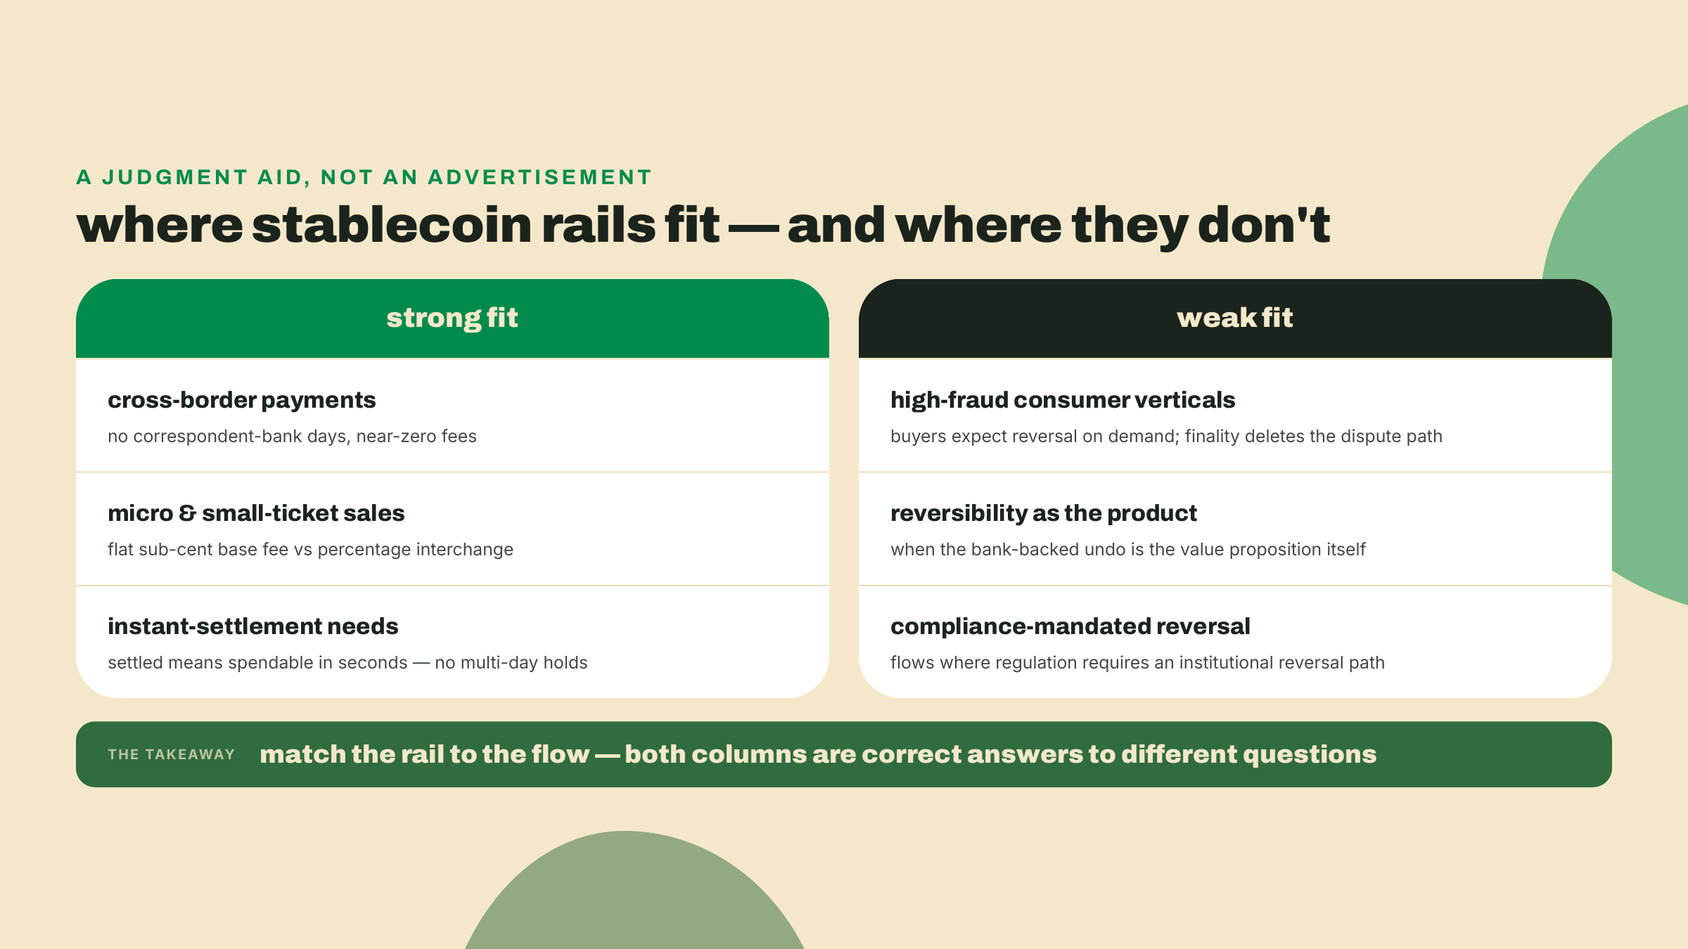
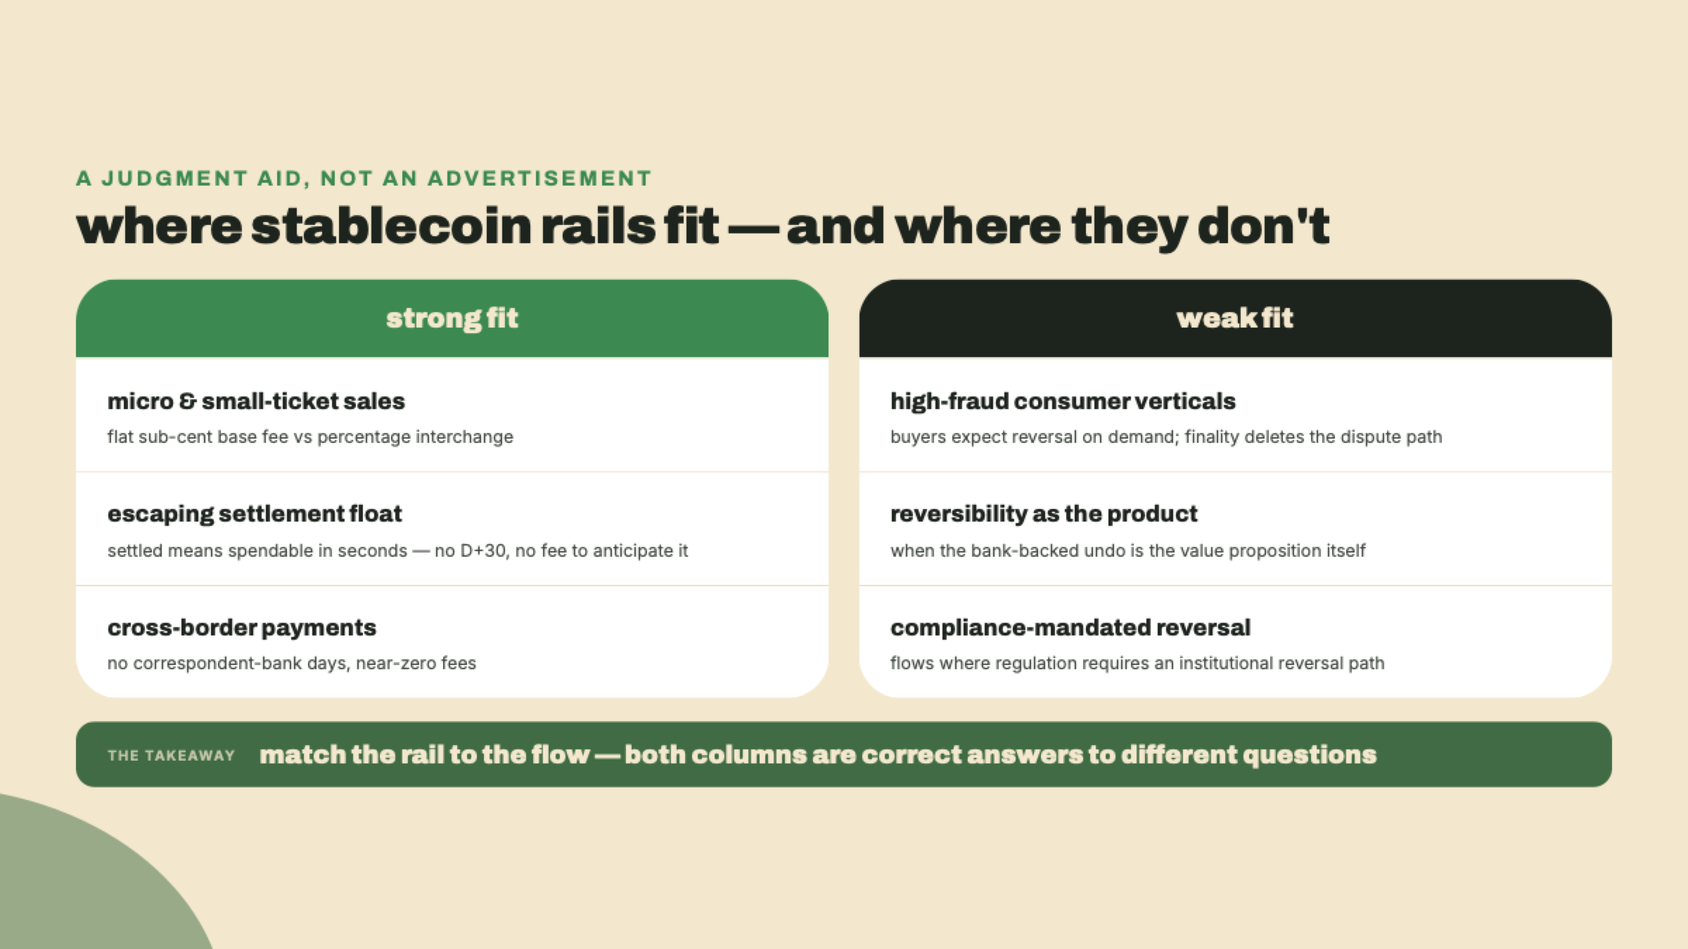
fix(payments): replace m01-l2 remittance corridor with the Brazilian card float

diff --git a/courses/solana-payments-commerce/visual-src/m01-l2/v04-chart.html b/courses/solana-payments-commerce/visual-src/m01-l2/v04-chart.html
@@ -10,10 +10,10 @@
   .viz { position: relative; width: 100%; }
 </style></head>
 <body>
-<!-- chart: Sending $200 home: corridor cost vs the network's cut
-     purpose: turn the remittance claim into a picture: the corridor's 6.6% average dwarfs a base fee that stays under a cent on the same transfer
-     data: Cost of moving the same $200 across a border Traditional remittance corridor, 6.6% average cost: $13.20 per transfer (Helius stablecoin-payments guide, fetched 2026-08-21) Solana base network fee, one signature: 5000 lamports = 0.000005 SOL, which is $0.00075 at $150 per SOL and $0.0015 at $300; sub-cent at any recent SOL price
-     prompt: Single-comparison bar chart with two bars for the cost of moving the same $200: one tall bar at $13.20 labeled "traditional corridor, 6.6% average", one bar at under one cent labeled "Solana base fee, flat per signature". The second bar is invisible at linear scale, so print its dollar value beside it rather than relying on bar height. Subtitle the chart with the $200 ticket so the comparison reads at a glance.
+<!-- chart: What D+1 really costs: the Brazilian card float, priced in the open
+     purpose: turn the antecipacao spread into a picture: the same sale costs sharply more the sooner the merchant wants their own money, and both spreads resolve to the same implicit monthly rate
+     data: InfinitePay published table, top volume tier (merchants above R$80,000/mo), fetched 2026-09-01, page undated. Credit a vista: 1.62% waiting for the settlement schedule vs 2.69% at D+1. Credit in 12x: 2.25% per installment waiting for each due date vs 8.99% for the whole sale at D+1. Both spreads resolve to about 1.05% a month, the implicit interest rate on the merchant's own revenue. Contrast: Solana base fee is a flat 5000 lamports per signature, sub-cent, settled in seconds, no float to buy back.
+     prompt: Grouped bar chart, two groups ("credito a vista" and "credito em 12x"), each with a pair of bars: waiting for the schedule (emerald) vs money at D+1 (yellow). Print the percentage above every bar, with a per-installment note on the 12x waiting bar. Legend above the chart names the two series. Close with a takeaway band stating that both spreads price the same loan at about 1.05% a month, and a caption carrying the source, its fetch date, and the flat Solana base fee contrast.
      BUILD .viz as on-brand HTML per skills/content-gen/references/visual-rendering.md.
      Header: <div class="stbr-eyebrow">..</div> + <h2 class="viz-title">..</h2>.
      Leave the .stbr-decor block untouched (per-asset brand decoration).
@@ -25,39 +25,68 @@
 </div>
 <div class="viz">
 <style>
-  .sub { font-family:var(--font-body); font-size:20px; color:var(--text-secondary); margin:-6px 0 10px; }
-  .stage { background:var(--surface-card); border-radius:var(--radius-2xl); padding:34px 60px 26px; margin-top:14px; }
-  .bars { display:flex; justify-content:center; align-items:flex-end; gap:200px; height:420px;
+  .sub { font-family:var(--font-body); font-size:20px; color:var(--text-secondary); margin:-6px 0 8px; }
+  .legend { display:flex; gap:28px; align-items:center; margin:2px 0 0; }
+  .legend .li { display:flex; gap:10px; align-items:center; font-family:var(--font-body); font-size:16px; color:var(--text-secondary); white-space:nowrap; }
+  .legend .sw { width:18px; height:18px; border-radius:5px; flex:0 0 18px; }
+  .stage { background:var(--surface-card); border-radius:var(--radius-2xl); padding:26px 60px 20px; margin-top:12px; }
+  .bars { display:flex; justify-content:center; align-items:flex-end; gap:190px;
           border-bottom:2.5px solid var(--border-strong); }
+  .grp { display:flex; align-items:flex-end; gap:30px; }
   .bcol { display:flex; flex-direction:column; align-items:center; justify-content:flex-end; }
-  .bcol .val { font-family:var(--font-display); font-weight:900; font-size:40px; color:var(--text-primary); margin-bottom:10px; white-space:nowrap; }
-  .bcol .val small { display:block; font-family:var(--font-body); font-weight:400; font-size:15px; color:var(--text-muted); text-align:center; margin-top:4px; }
-  .bcol .bar { width:190px; border-radius:8px 8px 0 0; }
-  .labels { display:flex; justify-content:center; gap:200px; padding-top:14px; }
-  .labels .lb { width:190px; text-align:center; font-family:var(--font-body); line-height:1.3; }
-  .labels .lb b { display:block; font-family:var(--font-display); font-weight:800; font-size:20px; color:var(--text-primary); margin-bottom:4px; }
-  .labels .lb span { font-size:15px; color:var(--text-secondary); }
-  .cap { margin-top:14px; font-family:var(--font-body); font-size:14px; color:var(--text-muted); text-align:center; }
+  .bcol .val { font-family:var(--font-display); font-weight:900; font-size:32px; color:var(--text-primary); margin-bottom:8px; white-space:nowrap; }
+  .bcol .val small { display:block; font-family:var(--font-body); font-weight:400; font-size:14px; color:var(--text-muted); text-align:center; margin-top:2px; }
+  .bcol .bar { width:150px; border-radius:8px 8px 0 0; }
+  .glabels { display:flex; justify-content:center; gap:190px; padding-top:12px; }
+  .glabels .lb { width:330px; text-align:center; font-family:var(--font-body); line-height:1.3; }
+  .glabels .lb b { display:block; font-family:var(--font-display); font-weight:800; font-size:20px; color:var(--text-primary); margin-bottom:3px; }
+  .glabels .lb span { font-size:14.5px; color:var(--text-secondary); }
+  .band { margin-top:14px; background:var(--surface-brand-deep); color:var(--text-on-brand);
+          border-radius:var(--radius-lg); padding:14px 26px; display:flex; align-items:center; gap:20px; }
+  .band .bk { font-family:var(--font-body); font-weight:800; font-size:12px; letter-spacing:.12em;
+              text-transform:uppercase; opacity:.85; white-space:nowrap; }
+  .band .bt { font-family:var(--font-display); font-weight:900; font-size:21px; line-height:1.15; }
+  .cap { margin-top:10px; font-family:var(--font-body); font-size:13.5px; color:var(--text-muted); text-align:center; }
 </style>
-  <div class="stbr-eyebrow">sending money home</div>
-  <h2 class="viz-title" style="font-size:48px;">$13.20 vs less than a cent</h2>
-  <div class="sub">cost of moving the same <b>$200</b> across a border</div>
+  <div class="stbr-eyebrow">the brazilian card float</div>
+  <h2 class="viz-title" style="font-size:46px;">what D+1 really costs</h2>
+  <div class="sub">same sale, same acquirer, same tier &mdash; the only variable is when you get <b>your own money</b></div>
+  <div class="legend">
+    <span class="li"><span class="sw" style="background:var(--stbr-emerald);"></span>wait for the settlement schedule</span>
+    <span class="li"><span class="sw" style="background:var(--stbr-yellow);"></span>money at D+1</span>
+  </div>
   <div class="stage">
     <div class="bars">
-      <div class="bcol">
-        <div class="val">$13.20</div>
-        <div class="bar" style="height:340px; background:var(--stbr-emerald);"></div>
+      <div class="grp">
+        <div class="bcol">
+          <div class="val">1.62%</div>
+          <div class="bar" style="height:54px; background:var(--stbr-emerald);"></div>
+        </div>
+        <div class="bcol">
+          <div class="val">2.69%</div>
+          <div class="bar" style="height:90px; background:var(--stbr-yellow);"></div>
+        </div>
       </div>
-      <div class="bcol">
-        <div class="val">$0.00075&ndash;$0.0015<small>invisible at this scale &mdash; read the number, not the bar</small></div>
-        <div class="bar" style="height:6px; background:var(--stbr-yellow); border-radius:3px;"></div>
+      <div class="grp">
+        <div class="bcol">
+          <div class="val">2.25%<small>per installment</small></div>
+          <div class="bar" style="height:75px; background:var(--stbr-emerald);"></div>
+        </div>
+        <div class="bcol">
+          <div class="val">8.99%<small>whole sale at once</small></div>
+          <div class="bar" style="height:300px; background:var(--stbr-yellow);"></div>
+        </div>
       </div>
     </div>
-    <div class="labels">
-      <div class="lb"><b>traditional corridor</b><span>6.6% average cost per transfer</span></div>
-      <div class="lb"><b>Solana base fee</b><span>flat per signature, any amount</span></div>
+    <div class="glabels">
+      <div class="lb"><b>cr&eacute;dito &agrave; vista</b><span>standard schedule pays the merchant at D+30</span></div>
+      <div class="lb"><b>cr&eacute;dito em 12x</b><span>standard schedule pays across twelve monthly installments</span></div>
     </div>
-    <div class="cap">corridor: 6.6% average remittance cost (Helius stablecoin-payments guide) &middot; base fee: 5000 lamports = 0.000005 SOL &mdash; $0.00075 at $150/SOL, $0.0015 at $300; sub-cent at any recent SOL price</div>
+    <div class="cap">rates: InfinitePay published table, top tier (above R$80,000/mo), fetched 2026-09-01, page undated &middot; on Solana rails the same sale settles in seconds for a flat 5000-lamport base fee &mdash; there is no float to buy back</div>
+  </div>
+  <div class="band">
+    <span class="bk">read the spread</span>
+    <span class="bt">both gaps price the same loan: roughly 1.05% a month to receive your own revenue early</span>
   </div>
 </div>
 </body></html>

diff --git a/courses/solana-payments-commerce/visual-src/m01-l2/v06-comparison.html b/courses/solana-payments-commerce/visual-src/m01-l2/v06-comparison.html
@@ -12,7 +12,7 @@
 <body>
 <!-- comparison: Where stablecoin rails fit, and where they do not
      purpose: compress the lesson's trade-off into a fit matrix the reader can defend in a design review
-     data: Strong fit: cross-border payments (no correspondent-bank days, near-zero fees); micro and small-ticket sales (flat sub-cent base fee vs percentage interchange); instant-settlement needs (settled means spendable in seconds, no multi-day holds) Weak fit: high-fraud consumer verticals where buyers expect reversal on demand (finality deletes the dispute path); businesses whose product is effectively reversibility (bank-backed undo is the value proposition); flows where compliance requires an institutional reversal path
+     data: Strong fit: micro and small-ticket sales (flat sub-cent base fee vs percentage interchange); escaping settlement float (settled means spendable in seconds, no D+30 schedule and no fee to anticipate it); cross-border payments, listed last (no correspondent-bank days, near-zero fees) Weak fit: high-fraud consumer verticals where buyers expect reversal on demand (finality deletes the dispute path); businesses whose product is effectively reversibility (bank-backed undo is the value proposition); flows where compliance requires an institutional reversal path
      prompt: Two-column fit matrix, "Strong fit" and "Weak fit" as column headers, three labeled rows per column, each row a short scenario name with a one-line reason underneath. Style the two columns as equal weight: this is a judgment aid, not an advertisement, so give the weak-fit column the same visual dignity as the strong-fit column.
      BUILD .viz as on-brand HTML per skills/content-gen/references/visual-rendering.md.
      Header: <div class="stbr-eyebrow">..</div> + <h2 class="viz-title">..</h2>.
@@ -46,9 +46,9 @@
   <div class="cols">
     <div class="fitcol">
       <div class="fh strong">strong fit</div>
-      <div class="frow"><div class="nm">cross-border payments</div><div class="rs">no correspondent-bank days, near-zero fees</div></div>
       <div class="frow"><div class="nm">micro &amp; small-ticket sales</div><div class="rs">flat sub-cent base fee vs percentage interchange</div></div>
-      <div class="frow"><div class="nm">instant-settlement needs</div><div class="rs">settled means spendable in seconds &mdash; no multi-day holds</div></div>
+      <div class="frow"><div class="nm">escaping settlement float</div><div class="rs">settled means spendable in seconds &mdash; no D+30, no fee to anticipate it</div></div>
+      <div class="frow"><div class="nm">cross-border payments</div><div class="rs">no correspondent-bank days, near-zero fees</div></div>
     </div>
     <div class="fitcol">
       <div class="fh weak">weak fit</div>

diff --git a/courses/solana-payments-commerce/lessons/m01-l2/intro.md b/courses/solana-payments-commerce/lessons/m01-l2/intro.md
@@ -2,7 +2,7 @@
 
 ## Summary
 
-Last lesson you decoded a live USDC transfer and scanned a payment QR your own terminal generated. This one is the course's mental-model lesson: the last one that is mostly thinking, though it still puts two scripts and a policy file in your folder. Three moves. First we lay your card vocabulary against Solana's commitment levels, one to one, and pull out the decision rule you will use on every payment: which level do you wait for, given what the payment is worth. Second we take apart what a payment costs here, because the cost is not just smaller than card fees, it is a different shape, and the shape is what flips the economics of small-ticket and cross-border sales. Third we stare straight at the asymmetry: settled transfers cannot be reversed, by anyone, ever, which deletes chargeback fraud and your customer's safety net in the same stroke. We close on the question every model needs: when are these rails the wrong choice?
+Last lesson you decoded a live USDC transfer and scanned a payment QR your own terminal generated. This one is the course's mental-model lesson: the last one that is mostly thinking, though it still puts two scripts and a policy file in your folder. Three moves. First we lay your card vocabulary against Solana's commitment levels, one to one, and pull out the decision rule you will use on every payment: which level do you wait for, given what the payment is worth. Second we take apart what a payment costs here, because the cost is not just smaller than card fees, it is a different shape, and the shape is what flips the economics of small-ticket sales and of the credit float every Brazilian merchant quietly finances. Third we stare straight at the asymmetry: settled transfers cannot be reversed, by anyone, ever, which deletes chargeback fraud and your customer's safety net in the same stroke. We close on the question every model needs: when are these rails the wrong choice?
 
 How the work is shared out today: read the model with your hands in your lap, type along with me in the lab, and the challenge at the end you do alone. Each lesson hands you a little more of the work than the last, and from next module on you are building.
 
@@ -68,9 +68,19 @@ Two footnotes before the zoom-out, because a cost model with hidden line items i
 
 Now zoom out, because the flat fee is not a curiosity, it is the engine behind a number you already met. Last lesson gave you the stock: roughly $15.87B of stablecoins sitting on Solana. This lesson can give you the flow. In 2024, stablecoin transfer volume across chains was reported at $27.6 trillion, a figure Helius's stablecoin-payments guide says surpassed Visa and Mastercard combined (their dated claim, fetched 2026-08-21). On Solana specifically, the $1 trillion of 2025 volume from last lesson is a full-year figure, not a live counter. Divide that flow by that stock, and yes, this is rough arithmetic mixing a 2025 flow with a 2026 snapshot, but each circulating dollar turned over on the order of sixty times in a year. This is not parked money. It is money doing what money does when moving it costs nothing: it moves.
 
-And the flat fee decides who gets to participate in that movement. The average cost of a $200 remittance through traditional corridors is cited at 6.6%, $13.20 gone per envelope home (same Helius guide, same fetch date). On these rails the network's cut of that $200 is the same fraction of a cent it charges on everything else. The builders moving fastest on these rails are the ones serving customers who count cents, because for the first time the fee math is on their side. Cheap rails do not just make existing payments cheaper. They change who the payments industry is for.
+And the flat fee decides who gets to participate in that movement. But the strongest version of that argument is not on the far side of an ocean; it is sitting next to the till of every Brazilian store you have ever integrated. Start with the visible line. Averaged across the Brazilian market, the merchant discount rate runs 2.13% on credit and 1.08% on debit (my own computation from the BCB's DESCONTODA API series, Q1 2026), so the percentage story you just walked through holds here too. But in Brazil the percentage is only the visible half of the cost, because the fee schedule has a second axis this lesson has not priced yet: time. Sell on credit and the acquirer does not pay you tomorrow. An à vista credit sale settles to the merchant on a D+30 schedule, and a 12x parcelado sale drips in across twelve monthly installments. The customer left with the goods; your revenue is on a payment plan.
 
-![Moving 200 dollars through a traditional remittance corridor costs 13 dollars 20 cents on average, while the Solana base fee stays below one cent.](assets/v04-chart.png)
+How much is that time worth? You do not have to guess, because the acquirers price it in public. InfinitePay's published table for its top volume tier, merchants above R$80,000 a month (fetched 2026-09-01; the page itself carries no date), offers credit à vista at 1.62% if you accept the settlement schedule and 2.69% if you want the money at D+1. The 12x line: 2.25% per installment if you wait for each one to fall due, 8.99% if you want the whole sale at D+1. Now do to those four numbers what this lesson keeps doing to numbers and ask what is actually being sold. Both spreads resolve to roughly the same implicit rate, about 1.05% a month, the figure a Brazilian rate sheet writes as 1.05% a.m. That is not a processing fee. It is interest, and the principal is your own revenue. Antecipação is the industry selling you your money back, early, at a running monthly rate.
+
+![A grouped bar chart of InfinitePay's published top-tier rates: credit à vista costs 1.62 percent on the standard schedule versus 2.69 percent at D+1, and a 12x sale costs 2.25 percent per installment versus 8.99 percent at D+1, with both spreads pricing early access to the merchant's own revenue at roughly 1.05 percent a month.](assets/v04-chart.png)
+
+And the smaller you are, the worse the deal. Those tidy numbers belong to the R$80,000-a-month tier; walk down the schedule and the same products get more expensive as the merchant gets smaller. On Ton's posted rates, a 12x sale costs 20.39% below R$3,000 a month of volume and 11.51% above R$30,000 a month. On Mercado Pago's, the same pair reads 22.59% against 13.69%. Hold those side by side: the corner store pays a far higher rate than the chain it competes with, on the identical sale. A flat 5000-lamport fee does not know your monthly volume, and that indifference is the point.
+
+If you suspect the priced-in wait is a niche product for cash-strapped stores, the clearing data says otherwise. Núclea, the clearing house where Brazilian card receivables are registered, reports antecipação volume climbing from R$428.6 billion to R$614.9 billion, a 43% jump, with the count of establishments anticipating up 33.4%. Financing yourself out of your own receivables is not the exception in Brazilian commerce; it is the operating norm, and it is growing on both axes. Now stand this lesson's rails next to that machine. Settled means spendable, in seconds, for a flat fraction of a cent, at any volume tier. There is no D+30 to buy your way out of and no 1.05% a month to pay for the exit, because the receivable the whole antecipação industry monetizes never exists. The float is not discounted here. It is deleted.
+
+Before you take that argument anywhere near a Brazilian finance lead, say the next sentence yourself, before they say it to you. PIX is free for the merchant, instant, and for a plain domestic BRL sale it beats card rails and it beats what this course builds. That is not a grudging footnote; it is the honest baseline of Brazilian payments, and this course will not pretend otherwise. If the sale in front of you is one PIX serves, a customer paying now in reais, use PIX, and do not let anyone sell you a blockchain for it. A payments course that cannot say that sentence out loud is an advertisement.
+
+So why does the float argument survive that concession? Look at which rail PIX actually beat. Brazilian card volume splits R$3.1 trillion on credit against R$1 trillion on debit, and 42.6% of that credit volume is parcelado. PIX won the debit fight: the instant pay-now sale already belongs to it. What it did not replace is credit, because a credit sale is not a transfer that happens to be slow; it is the customer buying delay itself, the right to pay later and in pieces, and PIX does not sell delay. The float, and the roughly 1.05% a month it costs to escape it, is a credit cost, funded by the merchant, riding on the one rail PIX left standing. That is the comparison these rails actually face in Brazil: not PIX, whose fight is over, but the credit stack, whose full price you now know how to read: the visible percentage, plus the float, on terms that get worse as you get smaller. Cheap rails do not just make existing payments cheaper. They change which of a merchant's costs are laws of nature and which are line items you can refuse.
 
 ### The asymmetry: no one can claw it back
 
@@ -96,9 +106,9 @@ Every mental model this course hands you comes with the same final section, and 
 
 If the business you are integrating depends on bank-backed dispute rights, buyer-initiated reversals, or card-network chargeback protection, then no-chargeback finality removes exactly the thing being depended on. A high-fraud consumer vertical where shoppers expect reversal on demand is a bad fit, not because the tech fails, but because the customer's core expectation is the one property these rails delete by design. The same irreversibility that drops your fraud cost to near zero also removes the institutional undo your buyer may believe, reasonably, that they are owed. You can rebuild trust machinery in the application layer, and later modules do, but you should walk in knowing you are rebuilding something card rails gave you for free.
 
-Where do these rails fit best? Low-fee, cross-border, instant-settlement flows: the sales where percentage-based interchange eats the ticket, where correspondent banking eats days, where a multi-day settlement hold is the difference between making payroll and not. Where do they fit worst? Wherever reversibility is the product. If what your customer is really buying is the ability to change their mind after the money moves, sell them card rails. Knowing when not to use your new tool is not hedging. It is the model working.
+Where do these rails fit best? Low-fee, instant-settlement flows: the sales where percentage-based interchange eats the ticket, where a receivables schedule stands between revenue and payroll, and, further down the list, sales that cross a border, where correspondent banking still eats days. Where do they fit worst? Wherever reversibility is the product. If what your customer is really buying is the ability to change their mind after the money moves, sell them card rails. Knowing when not to use your new tool is not hedging. It is the model working.
 
-![A two-column matrix: strong fit for cross-border, small-ticket, and instant-settlement flows; weak fit for high-fraud sales, businesses selling reversibility, and compliance regimes requiring an institutional undo.](assets/v06-comparison.png)
+![A two-column matrix: strong fit for small-ticket sales, flows that need to escape settlement float, and, last, cross-border payments; weak fit for high-fraud sales, businesses selling reversibility, and compliance regimes requiring an institutional undo.](assets/v06-comparison.png)
 
 That is the whole model: a ladder you choose a rung on, a fee whose shape flips your unit economics, and an asymmetry that trades fraud cost for responsibility. Time to make it produce decisions.
 
